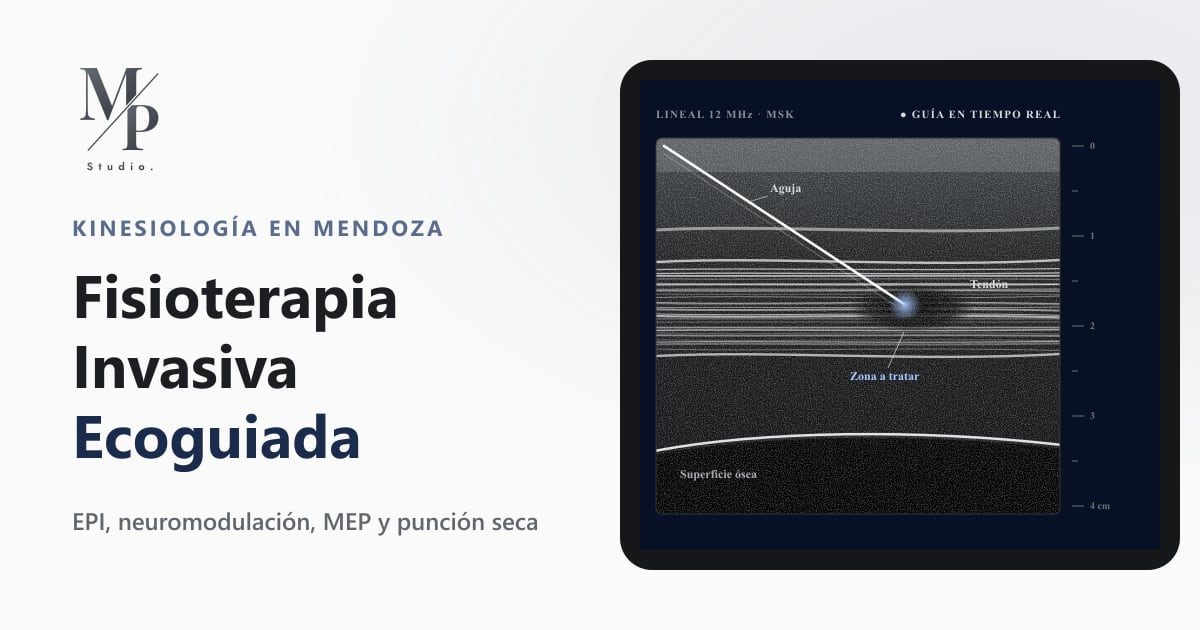
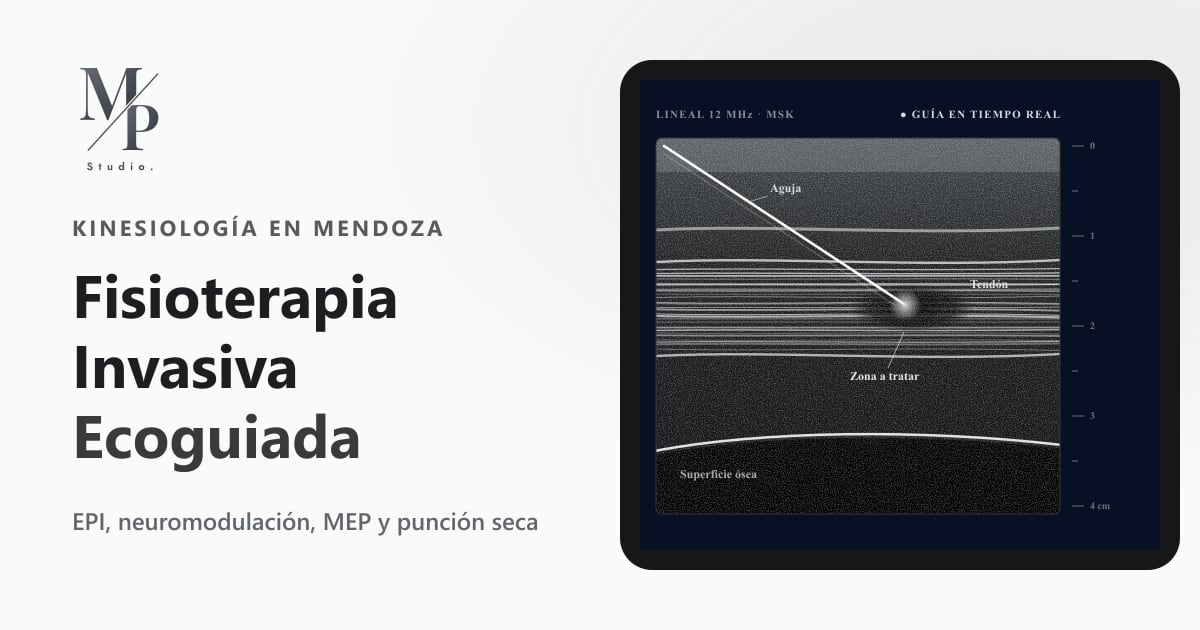
Paleta gris: el azul pasa a gris #878787 y vuelven los fondos claros anteriores
- Se revierte el gris topo (vuelven el blanco y el degradé perla en las secciones claras)
- Secciones oscuras, barra y footer en gris #878787 con degradé hacia #5f5f5f
- Títulos y textos que eran azul marino pasan a gris carbón; acentos celestes a gris claro
- 3D de la portada y vista ecográfica en tonos neutros; nuevas imágenes previas
- Texto blanco pleno sobre gris para mantener la legibilidad
- Imagen OG y theme-color en gris

diff --git a/src/styles/global.css b/src/styles/global.css
@@ -10,20 +10,26 @@
   --font-sans: 'Manrope Variable', 'Manrope Fallback', system-ui, -apple-system, 'Segoe UI', Roboto, sans-serif;
   --font-display: 'Space Grotesk Variable', 'Manrope Variable', system-ui, sans-serif;
 
-  --color-abyss: #141b29;
-  --color-navy-950: #1a2233;
-  --color-navy-900: #212b3f;
-  --color-navy-850: #27324a;
-  --color-navy-800: #2d3a55;
-  --color-navy-700: #1b2b4b;
-  --color-navy-600: #24385f;
-  --color-navy-500: #34508a;
-  --color-navy-100: #e3e9f5;
-  --color-navy-50: #f1f4fa;
-  --color-ice-500: #5d8bea;
-  --color-ice-400: #7ea8f5;
-  --color-ice-300: #a9c7ff;
-  --color-ice-200: #cfe0ff;
+  /* Paleta gris (pedido del cliente: el azul pasa a gris #878787).
+     Los nombres "navy" e "ice" se mantienen para no renombrar todas las clases. */
+  --color-ink: #1f1f1f;
+  --color-ink-soft: #2e2e2e;
+  --color-abyss: #6f6f6f;
+  --color-navy-950: #878787;
+  --color-navy-900: #7c7c7c;
+  --color-navy-850: #747474;
+  --color-navy-800: #6b6b6b;
+  --color-navy-700: #3a3a3a;
+  --color-navy-600: #474747;
+  --color-navy-500: #5a5a5a;
+  --color-navy-400: #8f8f8f;
+  --color-navy-300: #b5b5b5;
+  --color-navy-100: #e8e8e8;
+  --color-navy-50: #f3f3f3;
+  --color-ice-500: #6a6a6a;
+  --color-ice-400: #e6e6e6;
+  --color-ice-300: #f4f4f4;
+  --color-ice-200: #ffffff;
   --color-pending: #ffe08a;
 
   --ease-out-expo: cubic-bezier(0.16, 1, 0.3, 1);
@@ -53,7 +59,7 @@
   }
   ::selection {
     background: var(--color-ice-300);
-    color: var(--color-navy-950);
+    color: var(--color-ink);
   }
   :focus-visible {
     @apply rounded outline-2 outline-offset-4 outline-ice-400;
@@ -65,20 +71,20 @@
   /* Fondos */
   .bg-grid {
     background-image:
-      linear-gradient(rgba(169, 199, 255, 0.055) 1px, transparent 1px),
-      linear-gradient(90deg, rgba(169, 199, 255, 0.055) 1px, transparent 1px);
+      linear-gradient(rgba(255, 255, 255, 0.07) 1px, transparent 1px),
+      linear-gradient(90deg, rgba(255, 255, 255, 0.07) 1px, transparent 1px);
     background-size: 56px 56px;
   }
   .bg-grid-fade {
     mask-image: radial-gradient(ellipse 80% 70% at 50% 30%, #000 40%, transparent 100%);
   }
   .bg-dots-light {
-    background-image: radial-gradient(rgba(27, 43, 75, 0.12) 1px, transparent 1px);
+    background-image: radial-gradient(rgba(40, 40, 40, 0.12) 1px, transparent 1px);
     background-size: 22px 22px;
   }
   .glow {
     @apply pointer-events-none absolute rounded-full;
-    background: radial-gradient(circle closest-side, rgba(93, 139, 234, 0.32), rgba(93, 139, 234, 0.12) 45%, transparent 100%);
+    background: radial-gradient(circle closest-side, rgba(255, 255, 255, 0.22), rgba(255, 255, 255, 0.08) 45%, transparent 100%);
   }
   .noise::after {
     content: '';
@@ -93,7 +99,7 @@
   }
   .glass-light {
     @apply border border-navy-700/10 bg-white/90;
-    box-shadow: 0 1px 2px rgba(10, 21, 48, 0.04), 0 24px 48px -28px rgba(10, 21, 48, 0.25);
+    box-shadow: 0 1px 2px rgba(20, 20, 20, 0.04), 0 24px 48px -28px rgba(20, 20, 20, 0.25);
   }
 
   /* Tipografía */
@@ -106,7 +112,7 @@
   }
   .on-dark .eyebrow { @apply text-ice-300; }
   .text-gradient {
-    background: linear-gradient(100deg, #ffffff 0%, var(--color-ice-200) 40%, var(--color-ice-400) 100%);
+    background: linear-gradient(100deg, #ffffff 0%, #f2f2f2 50%, #d9d9d9 100%);
     -webkit-background-clip: text;
     background-clip: text;
     color: transparent;
@@ -125,16 +131,16 @@
   .btn:hover { @apply -translate-y-0.5; }
   .btn-primary {
     @apply bg-navy-700 text-white;
-    box-shadow: 0 10px 30px -12px rgba(27, 43, 75, 0.8), inset 0 1px 0 rgba(255, 255, 255, 0.12);
+    box-shadow: 0 10px 30px -12px rgba(20, 20, 20, 0.6), inset 0 1px 0 rgba(255, 255, 255, 0.12);
   }
   .btn-primary:hover { @apply bg-navy-900 text-white; }
   .btn-glow {
-    @apply bg-white text-navy-900;
-    box-shadow: 0 0 0 1px rgba(255, 255, 255, 0.4), 0 10px 40px -10px rgba(126, 168, 245, 0.75);
+    @apply bg-white text-ink;
+    box-shadow: 0 0 0 1px rgba(255, 255, 255, 0.4), 0 10px 30px -10px rgba(20, 20, 20, 0.45);
   }
-  .btn-glow:hover { @apply bg-ice-200 text-navy-950; }
+  .btn-glow:hover { @apply bg-zinc-100 text-ink; }
   .btn-outline-dark { @apply border border-white/20 text-white hover:border-ice-300/60 hover:bg-white/5 hover:text-white; }
-  .btn-outline { @apply border border-navy-700/20 text-navy-700 hover:border-navy-700 hover:bg-navy-50 hover:text-navy-900; }
+  .btn-outline { @apply border border-navy-700/20 text-navy-700 hover:border-navy-700 hover:bg-navy-50 hover:text-ink-soft; }
   .btn-sm { @apply min-h-10 px-4 py-2 text-[0.88rem]; }
   /* Brillo que recorre el botón al pasar el mouse */
   .btn-shine::after {
@@ -149,20 +155,20 @@
   }
   .card-hover:hover {
     @apply -translate-y-1 border-navy-700/25;
-    box-shadow: 0 30px 60px -30px rgba(10, 21, 48, 0.35);
+    box-shadow: 0 30px 60px -30px rgba(20, 20, 20, 0.35);
   }
   .card-link-cover::after { content: ''; @apply absolute inset-0 rounded-[inherit]; }
   .spotlight { --x: 50%; --y: 50%; }
   .spotlight::before {
     content: '';
     @apply pointer-events-none absolute inset-0 rounded-[inherit] opacity-0 transition-opacity duration-500;
-    background: radial-gradient(420px circle at var(--x) var(--y), rgba(126, 168, 245, 0.16), transparent 45%);
+    background: radial-gradient(420px circle at var(--x) var(--y), rgba(255, 255, 255, 0.16), transparent 45%);
   }
   .spotlight:hover::before { @apply opacity-100; }
   .border-gradient {
     background:
       linear-gradient(var(--color-navy-900), var(--color-navy-900)) padding-box,
-      linear-gradient(140deg, rgba(169, 199, 255, 0.45), rgba(169, 199, 255, 0.04) 40%, rgba(169, 199, 255, 0.25)) border-box;
+      linear-gradient(140deg, rgba(255, 255, 255, 0.5), rgba(255, 255, 255, 0.06) 40%, rgba(255, 255, 255, 0.3)) border-box;
     border: 1px solid transparent;
   }
 
@@ -189,8 +195,8 @@
 
   /* FAQ (details nativo) */
   .faq details { @apply rounded-2xl border border-zinc-200 bg-white transition-colors duration-300; }
-  .faq details[open] { @apply border-navy-700/30; box-shadow: 0 20px 40px -30px rgba(10, 21, 48, 0.35); }
-  .faq summary { @apply flex cursor-pointer list-none items-center justify-between gap-4 px-5 py-4 font-display font-semibold text-navy-900; }
+  .faq details[open] { @apply border-navy-700/30; box-shadow: 0 20px 40px -30px rgba(20, 20, 20, 0.35); }
+  .faq summary { @apply flex cursor-pointer list-none items-center justify-between gap-4 px-5 py-4 font-display font-semibold text-ink-soft; }
   .faq summary::-webkit-details-marker { display: none; }
   .faq summary::after {
     content: '+';
@@ -200,6 +206,12 @@
   .faq .answer { @apply px-5 pb-5 text-zinc-600; }
   .faq .answer p { @apply m-0; }
   .faq h3 { @apply m-0 font-display text-[1rem] leading-snug tracking-normal; }
+
+  /* Secciones oscuras: degradé desde el gris #878787 hacia un gris más profundo */
+  .on-dark.bg-navy-950, .on-dark.bg-abyss, #xp, #metodo { background-image: linear-gradient(160deg, #878787 0%, #747474 55%, #5f5f5f 100%); }
+
+  /* Sobre el gris, el texto blanco semitransparente pierde contraste: se usa blanco pleno */
+  .on-dark [class*="text-white/"], [data-header-inner] [class*="text-white/"] { color: #fff; }
 
   /* Fondos grises: degradé perla suave en lugar de gris plano */
   .bg-zinc-50 { background-image: linear-gradient(180deg, #f8f9fb 0%, #eceef2 55%, #e2e6ec 100%); }
@@ -220,17 +232,17 @@
 
   /* Contenido editorial (markdown) */
   .prose-site {
-    @apply prose prose-zinc max-w-none prose-headings:font-display prose-headings:tracking-tight prose-headings:text-navy-950 prose-h2:mt-14 prose-h2:text-[1.75rem] prose-h3:text-[1.2rem] prose-a:font-semibold prose-a:text-navy-600 prose-a:decoration-ice-400/60 prose-a:underline-offset-4 hover:prose-a:text-navy-900 prose-strong:text-navy-950 prose-li:marker:text-ice-500;
+    @apply prose prose-zinc max-w-none prose-headings:font-display prose-headings:tracking-tight prose-headings:text-ink prose-h2:mt-14 prose-h2:text-[1.75rem] prose-h3:text-[1.2rem] prose-a:font-semibold prose-a:text-navy-600 prose-a:decoration-ice-400/60 prose-a:underline-offset-4 hover:prose-a:text-ink-soft prose-strong:text-ink prose-li:marker:text-ice-500;
     font-size: 1.07rem;
   }
   .prose-site > h2:first-child { @apply mt-0; }
   /* Respuesta directa al inicio del artículo (la que citan buscadores y asistentes) */
   .prose-site .lede-answer {
-    @apply mt-0 mb-10 border-l-[3px] border-ice-500 pl-5 font-display text-[1.18rem] leading-relaxed font-medium text-navy-900;
+    @apply mt-0 mb-10 border-l-[3px] border-ice-500 pl-5 font-display text-[1.18rem] leading-relaxed font-medium text-ink-soft;
   }
   .prose-site .lede-answer + h2 { @apply mt-0; }
   .prose-site .callout {
-    @apply my-8 rounded-2xl border border-navy-700/10 bg-navy-50 px-6 py-5 text-navy-900;
+    @apply my-8 rounded-2xl border border-navy-700/10 bg-navy-50 px-6 py-5 text-ink-soft;
     border-left: 3px solid var(--color-ice-500);
   }
   .prose-site .callout p { @apply m-0; }
@@ -247,7 +259,7 @@
   .cta-inline .btn { @apply relative; }
 
   /* Formularios */
-  .field { @apply grid gap-1.5 text-[0.93rem] font-semibold text-navy-900; }
+  .field { @apply grid gap-1.5 text-[0.93rem] font-semibold text-ink-soft; }
   .field input, .field select, .field textarea {
     @apply w-full rounded-xl border border-zinc-300 bg-white px-4 py-3 font-sans text-base font-normal text-zinc-900 transition focus:border-navy-500 focus:outline-none focus:ring-4 focus:ring-ice-300/40;
   }

diff --git a/src/lib/visuals.js b/src/lib/visuals.js
@@ -23,10 +23,10 @@ export function ultrasoundHero({ live = false } = {}) {
   <clipPath id="us-clip"><rect x="36" y="58" width="404" height="376" rx="6"/></clipPath>
   <linearGradient id="us-depth" x1="0" y1="0" x2="0" y2="1"><stop offset="0" stop-color="#45484b"/><stop offset=".35" stop-color="#1d1f21"/><stop offset="1" stop-color="#0e0f10"/></linearGradient>
   <radialGradient id="us-lesion" cx=".5" cy=".5" r=".5"><stop offset="0" stop-color="#050505" stop-opacity=".95"/><stop offset=".7" stop-color="#0b0c0d" stop-opacity=".7"/><stop offset="1" stop-color="#0b0c0d" stop-opacity="0"/></radialGradient>
-  <radialGradient id="us-tip" cx=".5" cy=".5" r=".5"><stop offset="0" stop-color="#a9c7ff" stop-opacity=".9"/><stop offset="1" stop-color="#a9c7ff" stop-opacity="0"/></radialGradient>
+  <radialGradient id="us-tip" cx=".5" cy=".5" r=".5"><stop offset="0" stop-color="#e6e6e6" stop-opacity=".9"/><stop offset="1" stop-color="#e6e6e6" stop-opacity="0"/></radialGradient>
   <linearGradient id="us-shadow" x1="0" y1="0" x2="0" y2="1"><stop offset="0" stop-color="#000" stop-opacity=".85"/><stop offset="1" stop-color="#000" stop-opacity=".98"/></linearGradient>
   <filter id="us-speckle" x="0" y="0" width="100%" height="100%"><feTurbulence type="fractalNoise" baseFrequency=".85" numOctaves="2" seed="7"/><feColorMatrix values="0 0 0 0 .85  0 0 0 0 .9  0 0 0 0 .9  0 0 0 1.1 -.42"/></filter>
-  <linearGradient id="us-sweep" x1="0" y1="0" x2="0" y2="1"><stop offset="0" stop-color="#a9c7ff" stop-opacity="0"/><stop offset="1" stop-color="#a9c7ff" stop-opacity=".18"/></linearGradient>
+  <linearGradient id="us-sweep" x1="0" y1="0" x2="0" y2="1"><stop offset="0" stop-color="#e6e6e6" stop-opacity="0"/><stop offset="1" stop-color="#e6e6e6" stop-opacity=".18"/></linearGradient>
 </defs>
 <rect width="560" height="470" fill="#071024"/>
 <g font-family="Manrope, system-ui, sans-serif" font-size="11" font-weight="700" letter-spacing="1.2" fill="#8a8e92">
@@ -60,7 +60,7 @@ export function ultrasoundHero({ live = false } = {}) {
   <g data-us-label="" fill="#d9dcdf"><text x="150" y="112">Aguja</text></g>
   <line x1="148" y1="116" x2="128" y2="122" stroke="#d9dcdf" stroke-opacity=".6"/>
   <g data-us-label="" fill="#d9dcdf"><text x="350" y="208">Tendón</text></g>
-  <g data-us-label="" fill="#a9c7ff"><text x="230" y="300">Zona a tratar</text></g>
+  <g data-us-label="" fill="#e6e6e6"><text x="230" y="300">Zona a tratar</text></g>
   <line x1="268" y1="288" x2="284" y2="252" stroke="#d6d9dc" stroke-opacity=".7"/>
   <g data-us-label="" fill="#a7abaf"><text x="60" y="398">Superficie ósea</text></g>
 </g>
@@ -88,9 +88,9 @@ export function ultrasoundLive() {
   return `<svg class="us-live" viewBox="0 0 560 470" aria-hidden="true" focusable="false" preserveAspectRatio="xMidYMid slice">
 <defs>
   <clipPath id="usl-clip"><rect x="36" y="58" width="404" height="376" rx="6"/></clipPath>
-  <radialGradient id="usl-tip" cx=".5" cy=".5" r=".5"><stop offset="0" stop-color="#cfe0ff" stop-opacity=".95"/><stop offset=".45" stop-color="#7ea8f5" stop-opacity=".45"/><stop offset="1" stop-color="#7ea8f5" stop-opacity="0"/></radialGradient>
-  <radialGradient id="usl-lesion" cx=".5" cy=".5" r=".5"><stop offset="0" stop-color="#7ea8f5" stop-opacity=".22"/><stop offset="1" stop-color="#7ea8f5" stop-opacity="0"/></radialGradient>
-  <linearGradient id="usl-sweep" x1="0" y1="0" x2="0" y2="1"><stop offset="0" stop-color="#a9c7ff" stop-opacity="0"/><stop offset=".85" stop-color="#a9c7ff" stop-opacity=".14"/><stop offset="1" stop-color="#cfe0ff" stop-opacity=".35"/></linearGradient>
+  <radialGradient id="usl-tip" cx=".5" cy=".5" r=".5"><stop offset="0" stop-color="#cfe0ff" stop-opacity=".95"/><stop offset=".45" stop-color="#d9d9d9" stop-opacity=".45"/><stop offset="1" stop-color="#d9d9d9" stop-opacity="0"/></radialGradient>
+  <radialGradient id="usl-lesion" cx=".5" cy=".5" r=".5"><stop offset="0" stop-color="#d9d9d9" stop-opacity=".22"/><stop offset="1" stop-color="#d9d9d9" stop-opacity="0"/></radialGradient>
+  <linearGradient id="usl-sweep" x1="0" y1="0" x2="0" y2="1"><stop offset="0" stop-color="#e6e6e6" stop-opacity="0"/><stop offset=".85" stop-color="#e6e6e6" stop-opacity=".14"/><stop offset="1" stop-color="#cfe0ff" stop-opacity=".35"/></linearGradient>
 </defs>
 <g clip-path="url(#usl-clip)">
   <g class="us-fibers">${flows}</g>
@@ -99,9 +99,9 @@ export function ultrasoundLive() {
   <line class="us-needle" x1="44" y1="66" x2="284" y2="224" stroke="#ffffff" stroke-width="2.6" stroke-linecap="round"/>
   <g class="us-tipwrap"><circle class="us-tip" cx="285" cy="225" r="18" fill="url(#usl-tip)"/>${sparks}</g>
   <rect class="us-sweep" x="36" y="18" width="404" height="44" fill="url(#usl-sweep)"/>
-  <rect class="us-flicker" x="36" y="58" width="404" height="376" fill="#a9c7ff"/>
+  <rect class="us-flicker" x="36" y="58" width="404" height="376" fill="#e6e6e6"/>
 </g>
-<circle class="us-rec" cx="279" cy="34.5" r="3" fill="#7ea8f5"/>
+<circle class="us-rec" cx="279" cy="34.5" r="3" fill="#d9d9d9"/>
 </svg>`;
 }
 

diff --git a/src/scripts/scene3d.js b/src/scripts/scene3d.js
@@ -10,8 +10,8 @@ import { RoomEnvironment } from 'three/addons/environments/RoomEnvironment.js';
 import { RoundedBoxGeometry } from 'three/addons/geometries/RoundedBoxGeometry.js';
 import { probe as labProbe } from './lab3d.js';
 
-const ICE = new THREE.Color('#a9c7ff');
-const ICE_DEEP = new THREE.Color('#5d8bea');
+const ICE = new THREE.Color('#ffffff');
+const ICE_DEEP = new THREE.Color('#bdbdbd');
 const LESION = new THREE.Color('#ff9a6b');
 const LESION_POS = new THREE.Vector3(0.9, 0.06, 0.05);
 
@@ -100,7 +100,7 @@ function createFibers(count) {
       void main() {
         vec3 col = mix(uDeep, uColor, 0.35 + vSeed * 0.65);
         col = mix(col, uLesion, vLesion * 0.75);
-        col += vec3(0.75, 0.88, 1.0) * vScan * 0.7;
+        col += vec3(0.95, 0.95, 0.95) * vScan * 0.7;
         col += uLesion * vLesion * uEnergy * 0.8;
         float a = (0.045 + vSeed * 0.05 + vScan * 0.16 + vLesion * 0.07) * vFade;
         gl_FragColor = vec4(col, a);
@@ -140,7 +140,7 @@ function createSheath() {
         float fres = pow(1.0 - abs(dot(vN, vV)), 2.5);
         float fade = smoothstep(5.4, 3.6, abs(vX));
         float ring = exp(-pow((vX - uScanX) * 6.0, 2.0)) * uScanOn;
-        vec3 col = uColor * fres * 0.55 + vec3(0.7, 0.85, 1.0) * ring * 0.9;
+        vec3 col = uColor * fres * 0.55 + vec3(0.92, 0.92, 0.92) * ring * 0.9;
         gl_FragColor = vec4(col, (fres * 0.12 + ring * 0.35) * fade);
       }`,
   });
@@ -180,7 +180,7 @@ function createProbe() {
         float sweep = exp(-pow((fract(uTime * 0.35) - d) * 9.0, 2.0));
         float edge = smoothstep(0.62, 0.78, abs(vP.x) / (0.5 + 0.28 * d));
         float a = ((1.0 - d) * 0.035 + lines * 0.012 + sweep * 0.09 + edge * 0.1) * uOn;
-        gl_FragColor = vec4(vec3(0.66, 0.8, 1.0), a);
+        gl_FragColor = vec4(vec3(0.9, 0.9, 0.9), a);
       }`,
   });
   const plane = new THREE.Mesh(pg, planeMat);
@@ -243,7 +243,7 @@ function createNeedle(glowTex) {
       }`,
     fragmentShader: /* glsl */ `
       varying float vA;
-      void main(){ float d = length(gl_PointCoord - 0.5); if (d > 0.5) discard; gl_FragColor = vec4(vec3(0.8, 0.9, 1.0), (1.0 - d * 2.0) * vA); }`,
+      void main(){ float d = length(gl_PointCoord - 0.5); if (d > 0.5) discard; gl_FragColor = vec4(vec3(0.95, 0.95, 0.95), (1.0 - d * 2.0) * vA); }`,
   });
   const sparks = new THREE.Points(pg, pm);
   group.add(sparks);
@@ -270,18 +270,18 @@ export function createScene(canvas, { mobile = false } = {}) {
   renderer.toneMappingExposure = 0.9;
 
   const scene = new THREE.Scene();
-  scene.fog = new THREE.FogExp2('#1a2233', 0.05);
+  scene.fog = new THREE.FogExp2('#7c7c7c', 0.05);
   const pmrem = new THREE.PMREMGenerator(renderer);
   scene.environment = pmrem.fromScene(new RoomEnvironment(), 0.04).texture;
 
   const camera = new THREE.PerspectiveCamera(34, 1, 0.1, 80);
   camera.position.set(0, 0.9, 11);
 
-  scene.add(new THREE.AmbientLight('#9db6e8', 0.35));
+  scene.add(new THREE.AmbientLight('#e0e0e0', 0.35));
   const key = new THREE.DirectionalLight('#ffffff', 2.2);
   key.position.set(3, 5, 4);
   scene.add(key);
-  const rim = new THREE.PointLight('#5d8bea', 30, 14);
+  const rim = new THREE.PointLight('#ffffff', 30, 14);
   rim.position.set(-3, 1.5, -3);
   scene.add(rim);
 

diff --git a/scripts/images.js b/scripts/images.js
@@ -24,10 +24,10 @@ const logo = readFileSync(resolve(root, 'public/img/logo/mp-studio.svg'), 'utf8'
 const og = `<svg xmlns="http://www.w3.org/2000/svg" width="1200" height="630" viewBox="0 0 1200 630">
 <rect width="1200" height="630" fill="#fafafa"/>
 <rect x="0" y="0" width="1200" height="630" fill="url(#g)"/>
-<defs><radialGradient id="g" cx=".85" cy=".2" r=".6"><stop offset="0" stop-color="#5b6b8c" stop-opacity=".14"/><stop offset="1" stop-color="#5b6b8c" stop-opacity="0"/></radialGradient></defs>
+<defs><radialGradient id="g" cx=".85" cy=".2" r=".6"><stop offset="0" stop-color="#777777" stop-opacity=".14"/><stop offset="1" stop-color="#777777" stop-opacity="0"/></radialGradient></defs>
 ${logo}
-<text x="72" y="236" font-family="Manrope, Segoe UI, Arial, sans-serif" font-size="22" font-weight="700" letter-spacing="3" fill="#5b6b8c">KINESIOLOGÍA EN MENDOZA</text>
-<text font-family="Manrope, Segoe UI, Arial, sans-serif" font-size="60" font-weight="800" fill="#1c1e21"><tspan x="72" y="318">Fisioterapia</tspan><tspan x="72" y="388">Invasiva</tspan><tspan x="72" y="458" fill="#1b2b4b">Ecoguiada</tspan></text>
+<text x="72" y="236" font-family="Manrope, Segoe UI, Arial, sans-serif" font-size="22" font-weight="700" letter-spacing="3" fill="#5a5a5a">KINESIOLOGÍA EN MENDOZA</text>
+<text font-family="Manrope, Segoe UI, Arial, sans-serif" font-size="60" font-weight="800" fill="#1c1e21"><tspan x="72" y="318">Fisioterapia</tspan><tspan x="72" y="388">Invasiva</tspan><tspan x="72" y="458" fill="#3a3a3a">Ecoguiada</tspan></text>
 <text x="72" y="530" font-family="Manrope, Segoe UI, Arial, sans-serif" font-size="24" font-weight="600" fill="#61666c">EPI, neuromodulación, MEP y punción seca</text>
 <rect x="620" y="60" width="560" height="510" rx="32" fill="#151719"/>
 ${hero}
